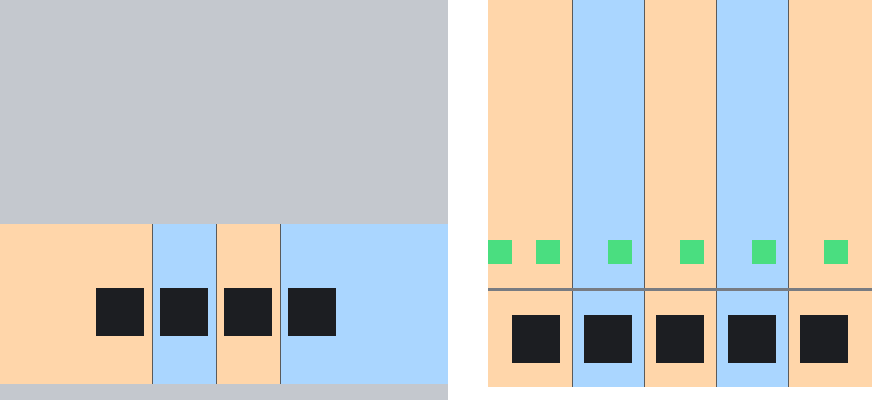
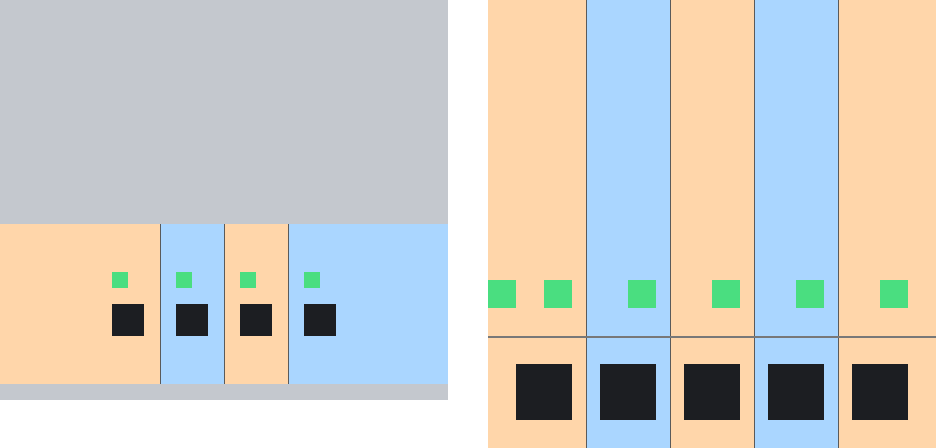
feat(design): draw the image of the aim zones from the device drawings
The zones() function of the drafts of the cable design session moves
into design/tools/port_layout.py (--zones-image), fed with the holes and
LEDs of the current drawings; docs/images/cable-aim-zones.png is redrawn
with the RJ45 holes of 2 x 2 texels. docs/cable-design.md also records
the one-pixel minimum of the cable, and tasks/todo.md the answers of the
maintainer.

diff --git a/design/tools/port_layout.py b/design/tools/port_layout.py
@@ -10,6 +10,7 @@ Java shape of the block (front facing north).
     python3 design/tools/port_layout.py <id>             # Markdown table for the device sheet
     python3 design/tools/port_layout.py <id> --java      # the ports as the Java records print them (PortLayout.Port)
     python3 design/tools/port_layout.py --all [--java]
+    python3 design/tools/port_layout.py --zones-image docs/images/cable-aim-zones.png
 """
 import desktop_switches
 import internet_box
@@ -170,13 +171,95 @@ def table(device_id):
     return '\n'.join(rows)
 
 
+# --- Image of the aim zones (docs/images/cable-aim-zones.png) ----------------------------------------------------
+
+def zones(width, height, holes, rows, zone_rows, scale=16):
+    """A face seen from the front, scale pixels per texel: the zone of each port tinted (two tints in turn) over the rows
+    of zone_rows, a grey line between two zones, the holes in black. holes: (column, width) in texels from the viewer's
+    left; rows: (row, height) of the holes. Copied from the draft of the cable design session
+    (research/design-scratchpad/cable_mock.py, 2026-11-20), which drew the first version of the image."""
+    img = [[(196, 200, 206, 255)] * (width * scale) for _ in range(height * scale)]
+    tints = [(255, 214, 170), (170, 214, 255)]
+    centres = [c + w / 2 for c, w in holes]
+    for i, (c, w) in enumerate(holes):
+        left = 0 if i == 0 else (centres[i - 1] + centres[i]) / 2
+        right = width if i == len(holes) - 1 else (centres[i] + centres[i + 1]) / 2
+        for y in range(zone_rows[0] * scale, zone_rows[1] * scale):
+            for x in range(int(left * scale), int(right * scale)):
+                img[y][x] = tints[i % 2] + (255,)
+        for y in range(rows[0] * scale, (rows[0] + rows[1]) * scale):
+            for x in range(c * scale, (c + w) * scale):
+                img[y][x] = (28, 30, 34, 255)
+    for i in range(1, len(holes)):
+        x = int((centres[i - 1] + centres[i]) / 2 * scale)
+        for y in range(zone_rows[0] * scale, zone_rows[1] * scale):
+            img[y][x] = (90, 90, 90, 255)
+    return img
+
+
+def _texel(img, col, row, colour, scale):
+    for y in range(row * scale, (row + 1) * scale):
+        for x in range(col * scale, (col + 1) * scale):
+            img[y][x] = colour
+
+
+def zones_image(path):
+    """The image of docs/cable-design.md, section 3, from the drawings of today: the front of the internet box (zones
+    over the lower band of the front, LAN LEDs above the ports) on the left; on the right the 5-port switch, its top as
+    seen from the front (port LEDs along the front edge, power LED at the left end) above its front, each zone running
+    over both. The zones follow the rule of PortLayouts (halfway between two ports, to the edge at the ends)."""
+    led = d.colour('led_green')
+    lo, hi = internet_box.ENVELOPE
+    top = hi[1]
+    _, box_ports = layout('internet_box')
+    band = box_ports[0]['zone'][0][1]
+    zone_rows = (int(round((top - band[4]) * d.TEXELS_PER_PX)), int(round((top - band[1]) * d.TEXELS_PER_PX)))
+    box = zones(int((hi[0] - lo[0]) * d.TEXELS_PER_PX), int((hi[1] - lo[1]) * d.TEXELS_PER_PX),
+                [(c, 2) for c in internet_box.LAN_COLS], internet_box.PORT_ROWS, zone_rows)
+    for c in internet_box.LAN_COLS:
+        _texel(box, c, internet_box.PORT_ROWS[0] - 2, led, 16)
+
+    spec = desktop_switches.SWITCHES['desktop_switch_5']
+    slo, shi = spec['envelope']
+    width = int((shi[0] - slo[0]) * d.TEXELS_PER_PX)
+    depth = int((shi[2] - slo[2]) * d.TEXELS_PER_PX)
+    height = int((shi[1] - slo[1]) * d.TEXELS_PER_PX)
+    holes = [(c, 2) for c in spec['ports']]
+    scale = 28
+    upper = zones(width, depth, holes, (0, 0), (0, depth), scale)
+    # The top seen from the front: its front edge at the bottom, next to the front face; LEDs on row 1 from that edge,
+    # one above the right texel of each port, the power LED at the left end (desktop_switches.py).
+    for c in spec['ports']:
+        _texel(upper, c + 1, depth - 2, led, scale)
+    _texel(upper, 0, depth - 2, led, scale)
+    front = zones(width, height, holes, desktop_switches.PORT_ROWS, (0, height), scale)
+    switch = upper + front
+    for x in range(len(switch[0])):
+        switch[len(upper)][x] = (120, 120, 120, 255)
+        switch[len(upper) + 1][x] = (120, 120, 120, 255)
+
+    h = max(len(box), len(switch))
+    gap = 40
+    canvas = [[(255, 255, 255, 255)] * (len(box[0]) + gap + len(switch[0])) for _ in range(h)]
+    for y, row in enumerate(box):
+        canvas[y][:len(row)] = row
+    for y, row in enumerate(switch):
+        canvas[y][len(box[0]) + gap:len(box[0]) + gap + len(row)] = row
+    with open(path, 'wb') as out:
+        out.write(d.encode_png(canvas))
+
+
 if __name__ == '__main__':
     import argparse
     parser = argparse.ArgumentParser()
     parser.add_argument('device', nargs='?', choices=sorted(DEVICES))
     parser.add_argument('--all', action='store_true')
     parser.add_argument('--java', action='store_true', help='print the ports as the Java records print them')
+    parser.add_argument('--zones-image', metavar='PNG', help='draw the image of the aim zones (docs/images/cable-aim-zones.png)')
     args = parser.parse_args()
+    if args.zones_image:
+        zones_image(args.zones_image)
+        raise SystemExit(0)
     ids = sorted(DEVICES) if args.all or not args.device else [args.device]
     for device in ids:
         print(java(device) if args.java else '## %s\n\n%s\n' % (device, table(device)))

diff --git a/tasks/todo.md b/tasks/todo.md
@@ -476,14 +476,14 @@ Plan (one commit per step, each after `./gradlew build test` and `./gradlew runG
 - [x] 5. (Done: `client/PortAim` (same resolver as the server), `PortOutlineRenderer` (frame of `cables.py`: lines of 1/16 px, light plastic highlight against the hole, socket outside, 1/64 px in front of the face, `RenderTypes.debugQuads()`), aimed line first in the panel (`StatusPanel.AimedPort`, keys `hud.worldwideblocks.aim.*`, 6 unit tests `StatusPanelAimTest`), `ClientLinkCache.linkAt`; capture step `AimPort`; scene and scenario `port_aim` passed (16 shots): panel "Port 2: free", "Port 1: connected", detailed "Port 1: to PC Tower, port 1" / "vers Tour PC", "Port 4: free" from above, switch "Port 3: free", "Port 5: free" from above, "Port 1: to Laptop, port 1"; the two-tone frame around the right hole in the five zoomed screenshots opened (box ports 2 and 4, switch ports 3 and 5, box port 1 with an empty hand while sneaking); the blue and white mark in an aimed hole is the crosshair, whose colours the game inverts. `./gradlew build test` green (406 unit tests), 71 game tests green.) #62 client: outline of the aimed port and panel line (`StatusPanel`, unit tests); capture scenario `port_aim` (box and switch, front and above).
 - [x] 6. (Done: `port/CordColour` (palette order, base texel of each boot, `CordColourTest`), `client/PlugModels` (standalone models), `CableRenderer` rewritten (plugs with `submitBlockModel`, cable as quads of `entitySolid` with the light of each point, held cable from the plug), `ModelCheck` checks the 8 plug models; scene and capture `plugs` passed (13 shots): plugs in the box and both switches, turned tower (90, 270), laptop (180), 8-port switch (90), box (270), the scene, the box at night (cables and plugs darken with the world), a cord started from port 4 of the switch ("5-Port Switch, port 4: right-click the second device.") with the cable from its plug to the hand; captures `distance` and `box_hosts` passed again (an end in an unloaded chunk falls back without a plug, no crash); `./gradlew build test` green, 72 game tests green.) #63 plugs and thick cable: standalone plug models, plugs drawn from the cables known to the client, cable end at the mouth of its port, `ATTACH_HEIGHT` removed, held cable from the plug to the hand, cable 0.25 px square and lit; capture scenario `plugs` (box and switch, cables in the four orientations).
 - [x] 7. (Done: game test `ping_seven_computers_box_and_switch` (7 computers, 3 on the box and 4 behind the switch, distinct addresses, each pings the next one, 2 replies each); trial scene and capture `seven_computers` passed (16 shots, both languages and sizes): box detailed with port 1 learning 4 MACs and 7 addresses lent, switch detailed, `ping -c 3` from tower-9095 behind the switch to 192.168.1.10: 3 replies, 0% loss, 0.108 ms; status of lot 1d-1 in `docs/lot-plan.md`. `./gradlew build test` green, 74 game tests green.) #19 six computers on a box and a switch, all reachable by `ping`: game test, trial scene and capture, status of lot 1d-1 in `docs/lot-plan.md`.
-- [ ] 8. #31 test operator line block: set aside (model to approve by Max, connection to decide; decision 11 below).
+- [x] 8. #31 test operator line block: moved to lot 3b by Max on 2026-11-21. Its file stays `issues/1d/04-test-operator-line.md` (its key, as for the renamed lots: a moved file would create the issue a second time), with `Milestone: lot 3b` and a sentence on what is left to decide (model to approve in Blockbench, RJ11 line cord); version 0.3.0 and lot 3b added to `milestones.tsv` (local validation of the definitions passed). On GitHub its milestone changes after `scripts/dev project sync` creates the milestone.
 - [x] 9. Report to Max; comments written in `build/issue-comments/` (61, 17, 18, 62, 63, 19, 31); nothing sent to GitHub.
 
 Review (2026-11-21): seven commits after the plan, each after a green `./gradlew build test` and `./gradlew runGameTestServer` (from 53 game tests to 74, from 383 unit tests to 408) and the captures of its step, all run and read by the assistant: `device_switch_5`, `device_switch_8`, `port_aim`, `plugs`, `seven_computers`, plus `box`, `distance` and `box_hosts` as regression during the lot, then on the last commit all 17 other existing scenarios (`full_ports`, `dhcp_addresses`, `chain`, `loop`, `tooltip`, `terminal`, `terminal_screen`, `terminal_advice`, the seven `dhcp_*`, `device_box`, `device_tower`, `device_laptop`): all passed (their screenshots not reread, only the results of the runs and the action bar of `full_ports`, still "Internet Box: no free port."). Gradle and the capture runs worked from the assistant's shell outside the sandbox, each capture 30 to 60 s; in the logs of the captures of the lot, the longest gap between two steps is 5 s (creation of the world, the wait of a ping), so no step waited for a hand. To do by Max: look at the captures (`run-capture/screenshots/`), validate the decisions above, then the board, `update-issues` and the comments.
 
 ### Decisions to validate by Max
 
-(Filled in as the steps go; each one easy to change, with its alternatives.)
+Answered by Max on 2026-11-21: 2 to 10 validated as they are ("the ports and the plugs please me"); 1 changed: the cable is never less than one pixel wide, whatever the distance, 0.25 px from close (done, `CableRenderer.halfWidth`, proved by the shot `scene_far` of the capture `plugs`); 11: #31 moved out of lot 1d-1 to lot 3b (done below).
 
 1. **The thick cable is hard to see from afar** (#63, to look at first): a cable of 0.25 px (1/64 block) is thinner than a screen pixel beyond about 12 blocks at 1920 x 1080 and about 5 blocks at 854 x 480 (field of view 70). Seen in the captures: the 99-block cable of `distance` fades out a short way from the player where the old line stayed visible to the end; in `seven_computers` (scene seen from about 8 blocks) and in the scene of `plugs` (about 9 blocks), the cables show as faint lines of one pixel, partly broken. Kept as the design says (a real cord is thin). Alternatives: draw a one-pixel line beyond a distance, or widen the cable with the distance. Change: `CableRenderer.submit`.
 2. **Zone of the line input of the box** (#61): the line port (engine port 5, at the back) is in the layout, since the layout has as many ports as the block. Its zone covers the left half of the back seen from behind, up to the power socket (x 4.5 to 8, y 0.75 to 3.25). Aimed with an Ethernet cord, the engine refuses it ("This port does not accept this cable.", the existing key) instead of falling back to a free LAN port. Alternatives: no zone on the line port (a click at the back takes the first free LAN port), or a zone only around its hole. Change: `PortLayouts.INTERNET_BOX` and `port_layout.py` (`single_zone_x`).
@@ -500,3 +500,10 @@ Review (2026-11-21): seven commits after the plan, each after a green `./gradlew
 ### Design drafts outside git (`research/design-scratchpad/`, compared on 2026-11-21, read only)
 
 Asked by Max: compare the drafts with `design/tools`. Result, reported by a read-only agent (diffs and checksums), spot-checked by the main session (commits 401a922 and 12b76a6 exist; the exported box texture of `export/` has the checksum of the one in 401a922): nothing essential is missing from the repository. `wwb_c1.py`, `gen_internet_box.py`, `guide_c1.md`, `palette_c1.json` and `point3/DeviceShapeTests.java` are older versions of committed files; the three patches are applied; `export/`, `exp_light/`, `tree_48d0a48/`, `tree_6d69e9c/` match commits (401a922, 12b76a6 and the two trees), `exp_dark/` matches the archived dark box; `issue-history/` is the record of the incident of #11, #15, #16, #45, with nothing left to restore; `dev/` holds capture screenshots of the device scenarios (rebuildable). Only two small things exist nowhere else: the `zones()` function of `cable_mock.py` that drew `docs/images/cable-aim-zones.png`, and the time guard of `capture.sh` around `runClientCapture` (with a local path, so not to copy as it is).
+
+### After Max's answer (2026-11-21, evening)
+
+- [x] Cable never less than one pixel wide: `CableRenderer` widens the section with the distance from the camera (one pixel = 2 x distance / (m11 x framebuffer height), `m11` of the projection), 0.25 px from close. Capture `plugs` (new shot `scene_far`, 30 blocks): the cables are continuous lines, 2 pixels per row measured by a scan of the screenshot; `seven_computers` at 854 x 480: solid blue lines where they were faint and broken. Some cables still stop partway: their hanging curve goes under the floor (the sag of the curve, unchanged since lot 1a; the cable on the ground comes with lot 1d-2), as the 99-block cable of `distance` does.
+- [x] #31 moved to lot 3b (step 8 above); `docs/lot-plan.md` (lot 3, status of lot 1d-1) and `docs/project-management.md` updated.
+- [x] `zones()` of the draft `research/design-scratchpad/cable_mock.py` copied into `design/tools/port_layout.py` (`--zones-image`), fed with the holes and LEDs of today's drawings; `docs/images/cable-aim-zones.png` redrawn with it (RJ45 holes of 2 x 2 texels, was 3 x 3). `capture.sh` left aside.
+- [x] `./gradlew build test` green, 74 game tests green, captures `plugs` (14 shots), `distance`, `seven_computers` passed.

diff --git a/docs/cable-design.md b/docs/cable-design.md
@@ -55,7 +55,7 @@ On the face that carries the ports, each port owns the strip of the face up to h
 
 ![Aim zones](images/cable-aim-zones.png)
 
-Box front on the left (zones over the lower band of the front). Switch on the right: its top as seen from the front (LEDs along the front edge), then its front; each port's zone runs over both. Holes in black, one tint per zone.
+Box front on the left (zones over the lower band of the front). Switch on the right: its top as seen from the front (LEDs along the front edge), then its front; each port's zone runs over both. Holes in black, one tint per zone. Drawn from the device drawings by `python3 design/tools/port_layout.py --zones-image docs/images/cable-aim-zones.png` (redrawn on 2026-11-21 with the RJ45 holes of 2 x 2 texels).
 
 | Device | Hole | Aim zone | Gain |
 |---|---|---|---|
@@ -91,7 +91,7 @@ The click point is turned into the north frame of the device, then looked up in 
   - the model is a plug in a port facing north, its mouth at 8, 8, 8 (sheet `design/blockbench/rj45_plug.md`): the client turns it with the port (0 north, 90 east, 180 south, 270 west, as the `y` of a blockstate) and moves its mouth to the mouth of the port given by `PortLayout`;
   - **loading at lot 1d-1:** no block state uses these models, so the game does not bake them by itself. The client registers them as standalone models: `ModelEvent.RegisterStandalone`, one `StandaloneModelKey` per colour, `SimpleUnbakedStandaloneModel.simpleModelWrapper(id)` (a `BlockStateModelPart`, drawn with `SubmitNodeCollector.submitBlockModel` and `Sheets.cutoutBlockItemSheet()`; confirmed at lot 1d-1 on 2026-11-21, `client/PlugModels`), then picks the model from the colour of the link (blue for every link until the colour is a property of the link, section 7). The cable takes the base tone of its colour from one texel of the boot of the plug texture (`port/CordColour`), drawn as quads of `RenderTypes.entitySolid` lit by the light of the world.
 - **Overhang accepted** (Max, 2026-11-20, realistic): the mouth of the tower is 0.5 px from the edge of its block and that of the laptop 1 px, so their plug goes out of the block; a tower or a laptop against a wall has its plug drawn inside the wall, as a real plug stands out behind a computer pushed against a wall.
-- **Thick cable:** square section of 0.25 px (a 6 mm cord x 2.4 is 0.23 px), four faces per segment, lit by the light of the world where it passes, in the colour of the cord. It replaces the line of `RenderTypes.lines`. The held cable goes from the plug to the hand.
+- **Thick cable:** square section of 0.25 px (a 6 mm cord x 2.4 is 0.23 px), four faces per segment, lit by the light of the world where it passes, in the colour of the cord. It replaces the line of `RenderTypes.lines`. Never less than one pixel of the screen wide (Max, 2026-11-21): from close it keeps its 0.25 px, from afar the section widens so that the cable stays visible (a 0.25 px cable is thinner than a pixel beyond about 12 blocks at 1920 x 1080). The held cable goes from the plug to the hand.
 - **In step 1 the cable keeps today's hanging curve**, between the ends of the two plugs. Step 2 replaces this curve.
 - Preview of the chosen plug (`design/tools/rj45_plug.py` and `preview.py`, not the game's rendering), turned with each port as the client will: internet box LAN 1 to 4, 5-port switch, 8-port switch, laptop (left flank), tower (back), each with a cable stub to the floor, the colours in the order of the palette.
 

diff --git a/design/tools/README.md b/design/tools/README.md
@@ -12,7 +12,7 @@ Scripts that draw the equipment for Blockbench, following [`docs/design-guide.md
 - `<id>.py`: one script per device: `internet_box.py`, `pc_tower.py`, `laptop.py` (two models sharing one texture), `desktop_switches.py` (the family of desktop switches: 5 and 8 ports, blocks of lot 1d-1).
 - `cables.py`: design drafts of the cables (`docs/cable-design.md`): the RJ45 plug, cables on the ground with their crossings and lanes, the two-tone outline of the aimed port, the cord colours, the cord icon; drafts only, under `design/blockbench/drafts/`.
 - `rj45_plug.py`: the RJ45 plug of lot 1d-1, one project per cord colour sharing one texture; `--scene` prints the preview of a plug in every port of the devices.
-- `port_layout.py`: the port layout of a device (lot 1d-1, `docs/cable-design.md` section 3): holes read from the drawing of the device, mouths, outward directions and aim zones; the "Port layout" table of the device sheet, or `--java` the ports as the Java records of `PortLayouts` print them, to compare with the code.
+- `port_layout.py`: the port layout of a device (lot 1d-1, `docs/cable-design.md` section 3): holes read from the drawing of the device, mouths, outward directions and aim zones; the "Port layout" table of the device sheet, or `--java` the ports as the Java records of `PortLayouts` print them, to compare with the code; `--zones-image <png>` draws the image of the aim zones of `docs/cable-design.md` (`docs/images/cable-aim-zones.png`).
 - `export.py`: exports an approved project to the assets.
 - `preview.py`: isometric preview of one or more projects, front and back, with the face shading of the game, to look at a drawing without Blockbench or to compare variants side by side; `--scene` with offsets for several projects together (`<id>@dx,dz`, or `<id>@dx,dy,dz,angle` to turn a project as the `y` of a blockstate), `--centre` and `--views` for a close-up.
 
